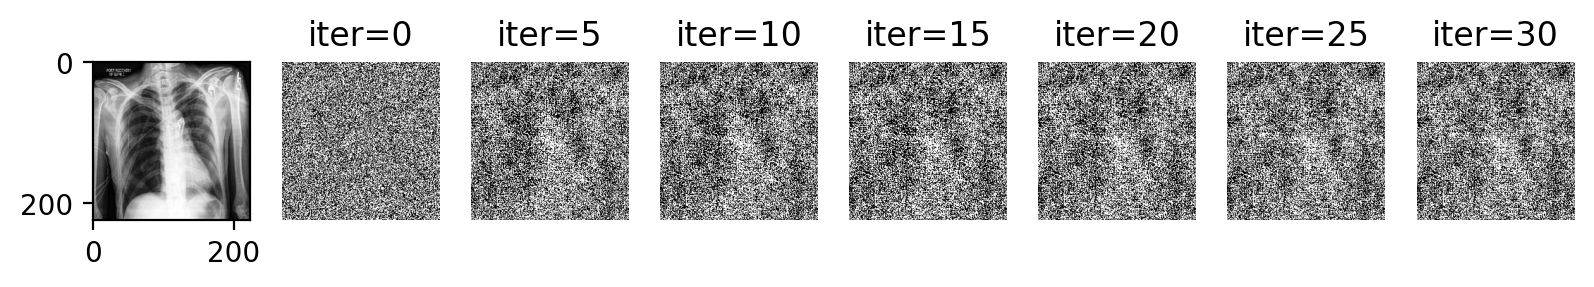
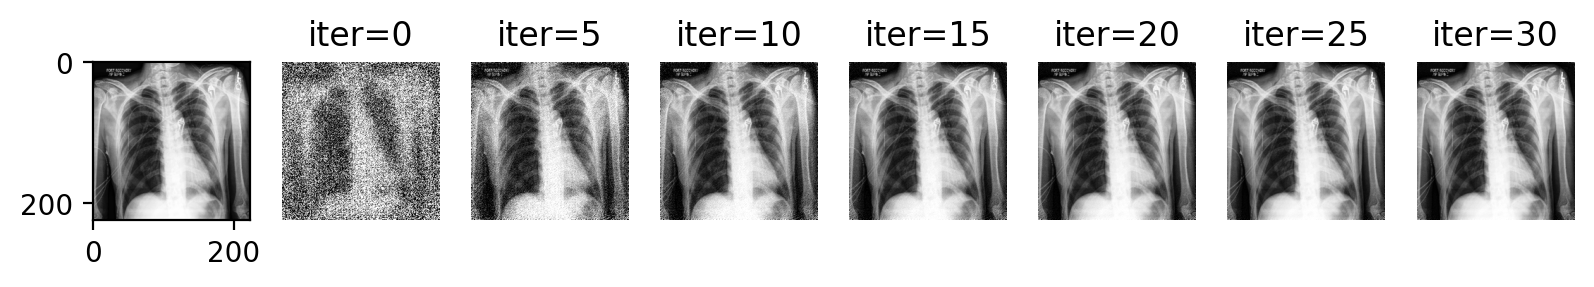
cm

Changed region(s): [[0.1537, 0.1951, 1.0, 0.7805]]

diff --git a/iDLG_exp.py b/iDLG_exp.py
@@ -96,12 +96,13 @@ def main(args):
             out = net(gt_data)
             y = criterion(out, gt_label)
             dy_dx = torch.autograd.grad(y, net.parameters())
-            original_dy_dx = list((t.detach().clone() for t in dy_dx))
+            orig_dy_dx = list((t.detach().clone() for t in dy_dx))
             if args.grad_norm:
-                grad_norm = [(x**2).sum().item()**0.5 for x in original_dy_dx]
-                original_dy_dx = [
-                    grad / norm
-                    for grad, norm in zip(original_dy_dx, grad_norm)
+                grad_max = [x.max().item() for x in orig_dy_dx]
+                grad_min = [x.min().item() for x in orig_dy_dx]
+                orig_dy_dx = [
+                    (g - g_min) / (g_max - g_min)
+                    for g, g_min, g_max in zip(orig_dy_dx, grad_min, grad_max)
                 ]
 
             # generate dummy data and label
@@ -124,19 +125,27 @@ def main(args):
                         'params': [dummy_data, dummy_label],
                         'initial_lr': initial_lr
                     }],
-                    lr=initial_lr)
+                    lr=initial_lr,
+                    max_iter=50,
+                    tolerance_grad=1e-9,
+                    tolerance_change=1e-11,
+                    history_size=250,
+                    line_search_fn="strong_wolfe")
             elif method == 'iDLG':
                 # optim_obj = [dummy_data, ]
-                optimizer = torch.optim.LBFGS([{
-                    'params': [
-                        dummy_data,
-                    ],
-                    'initial_lr': initial_lr
-                }],
-                                              lr=initial_lr)
+                optimizer = torch.optim.LBFGS(
+                    [{
+                        'params': [dummy_data],
+                        'initial_lr': initial_lr
+                    }],
+                    lr=initial_lr,
+                    max_iter=50,
+                    tolerance_grad=1e-9,
+                    tolerance_change=1e-11,
+                    history_size=250,
+                    line_search_fn="strong_wolfe")
                 # predict the ground-truth label
-                label_pred = torch.argmin(torch.sum(original_dy_dx[-2],
-                                                    dim=-1),
+                label_pred = torch.argmin(torch.sum(orig_dy_dx[-2], dim=-1),
                                           dim=-1).detach().reshape(
                                               (1, )).requires_grad_(False)
 
@@ -161,7 +170,7 @@ def main(args):
                                             method=method,
                                             criterion=criterion,
                                             net=net,
-                                            original_dy_dx=original_dy_dx,
+                                            orig_dy_dx=orig_dy_dx,
                                             grad_norm=args.grad_norm)
 
                 optimizer.step(closure)
@@ -193,7 +202,7 @@ def main(args):
 
                     # if current_loss < 0.000001:
                     # converge
-                    if mses[-1] < 1e-6:
+                    if mses[-1] < 1e-4:
                         break
             if mses[-1] < 1e-3:
                 num_success += 1

diff --git a/utils.py b/utils.py
@@ -6,7 +6,7 @@ import matplotlib.pyplot as plt
 
 
 def _closure(optimizer, dummy_data, dummy_label, label_pred, method, criterion,
-             net, original_dy_dx, grad_norm):
+             net, orig_dy_dx, grad_norm):
     optimizer.zero_grad()
     pred = net(dummy_data)
     if method == 'DLG':
@@ -22,14 +22,15 @@ def _closure(optimizer, dummy_data, dummy_label, label_pred, method, criterion,
                                       net.parameters(),
                                       create_graph=True)
 
-    grad_diff = 0
     if grad_norm:
-        dummy_norm = [(x**2).sum().item()**0.5 for x in dummy_dy_dx]
+        pass
+        # dummy_norm = [(x**2).sum().item()**0.5 for x in dummy_dy_dx]
 
-        dummy_dy_dx = [
-            grad / norm for grad, norm in zip(dummy_dy_dx, dummy_norm)
-        ]
-    for dg, og in zip(dummy_dy_dx, original_dy_dx):
+        # dummy_dy_dx = [
+        #     grad / norm for grad, norm in zip(dummy_dy_dx, dummy_norm)
+        # ]
+    grad_diff = 0
+    for dg, og in zip(dummy_dy_dx, orig_dy_dx):
         grad_diff += ((dg - og)**2).sum()
     grad_diff.backward()
     # nn.utils.clip_grad_norm_([dummy_data], max_norm=0.1)
